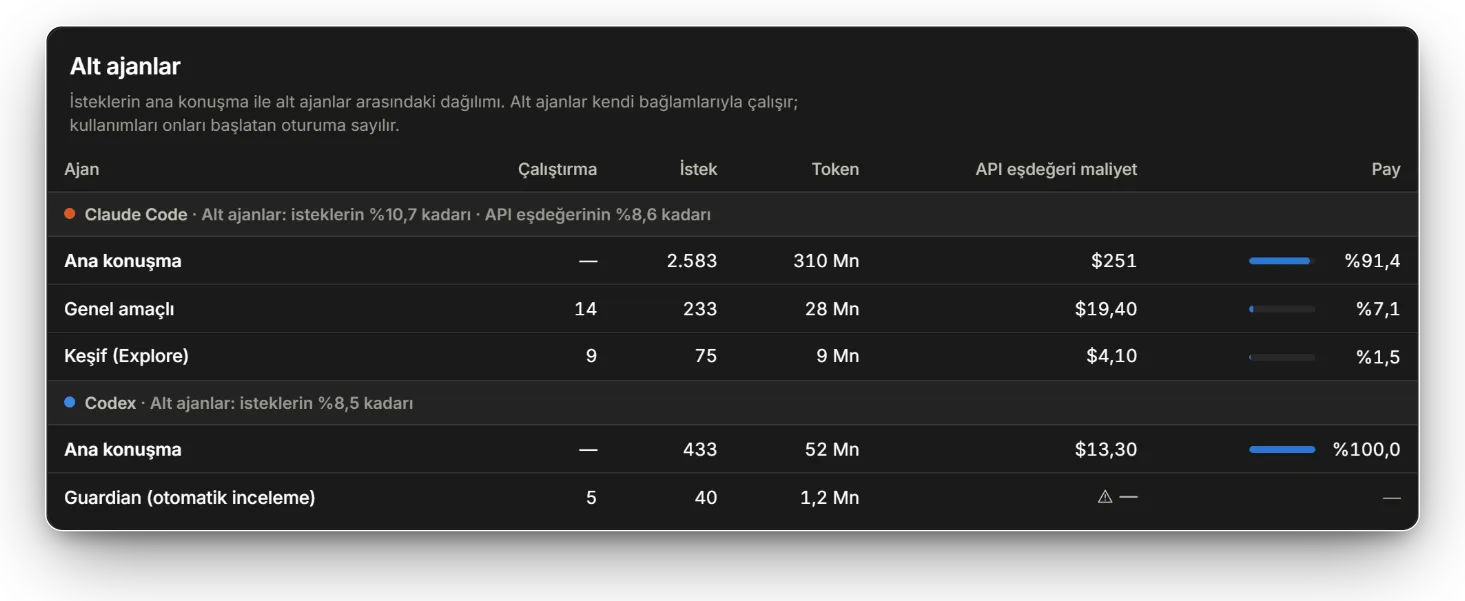
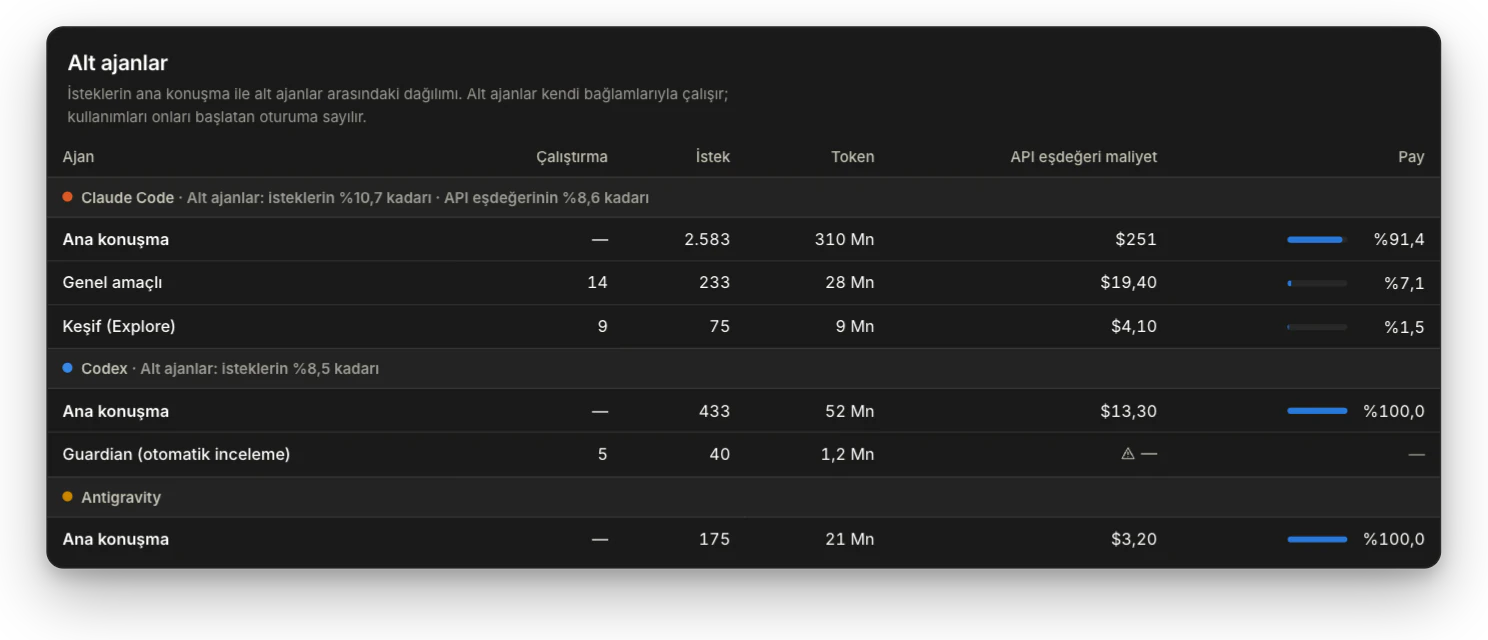
Release 0.4.0 with Google Antigravity
Bumps the version to 0.4.0 and adds Antigravity to both READMEs: the supported sources table, the Antigravity limit read under live capture, installing the CLIs from the app with sign-in help, and the known limitations for older Antigravity conversations and Google AI plan prices. All README screenshots and both demo GIFs are retaken from the current app, now showing Antigravity, plan value and the five live capture switches.

diff --git a/ui/src/lib/devmock.ts b/ui/src/lib/devmock.ts
@@ -9,6 +9,8 @@ let codexMissing = scenario.get('codex') === 'missing'
 let codexOut = scenario.get('codex') === 'nologin'
 let agyOut = scenario.get('agy') === 'nologin'
 let agyMissing = scenario.get('agy') === 'missing'
+// every limit read fresh and in range, as on a typical day (README screenshots)
+const showcase = scenario.get('showcase') === '1'
 
 let seed = 7
 const rnd = () => ((seed = (seed * 16807) % 2147483647) / 2147483647)
@@ -26,7 +28,7 @@ const settings: Settings = {
   currency: 'USD',
   fx_rate: 1,
   widget: {
-    visible: true, opacity: 0.85, size: 'm', scale: 1, x: null, y: null, anchor: 'bottom-right', auto_hide_fullscreen: true, layout: 'horizontal',
+    visible: true, opacity: showcase ? 1 : 0.85, size: 'm', scale: 1, x: null, y: null, anchor: 'bottom-right', auto_hide_fullscreen: true, layout: 'horizontal',
     items: (['primary', 'cost', 'limit_five_hour', 'limit_seven_day', 'tools', 'week_tokens', 'week_cost', 'month_cost', 'updated'] as const).map((k, i) => ({ kind: k, enabled: i < 4 })),
     providers: [], primary_period: 'today', primary_metric: 'tokens', limit_style: 'ring', theme: 'system', accent: '', corner_radius: 14,
     border: true, shadow: false, show_labels: true, show_reset_time: false, warn_at: 70, high_at: 90, always_on_top: true, lock_position: false, click_action: 'open_dashboard',
@@ -38,7 +40,7 @@ const settings: Settings = {
   primary_metric: 'tokens',
   dismissed_unpriced: [],
   limit_display: 'used',
-  plan_prices: {},
+  plan_prices: showcase ? { google: 19.99 } : {},
   weekly_report_auto: false,
   weekly_report_dir: '',
   tray: { show_percent: true, limit: 'auto' },
@@ -142,7 +144,7 @@ function limits(): LimitView[] {
 function allLimits(): LimitView[] {
   const now = Date.now()
   const share = (p: string, s: number, used: number | null) => ({ project_id: projects.indexOf(p) + 1, name: p, hidden: false, totals: totals(Math.round(s * 5e7), s * 30), share: s, estimated_pct: used === null ? null : used * s })
-  return [
+  const all: LimitView[] = [
     { provider: 'anthropic', limit_id: '', window: 'five_hour', window_minutes: 300, used_pct: 46, resets_at: Math.round(now / 1000 + 2.3 * 3600), observed_ms: now - 192 * 60000, source: 'cowork_audit', status: 'allowed', plan: null, accuracy: 'exact', state: 'behind', window_start_ms: now - 2.7 * 3600e3, window_usage: totals(41e6, 31.2), usage_since: totals(190e6, 65.9), forecast: null, projects: [share('demo-app', 0.62, 46), share('notes', 0.38, 46)] },
     { provider: 'anthropic', limit_id: '', window: 'seven_day', window_minutes: 10080, used_pct: 73, resets_at: Math.round(now / 1000 + 2.6 * 86400), observed_ms: now - 4 * 60000, source: 'cowork_audit', status: 'allowed_warning', plan: null, accuracy: 'exact', state: 'fresh', window_start_ms: now - 4.4 * 86400e3, window_usage: totals(612e6, 402.5), usage_since: totals(0, 0), forecast: { kind: 'fills', rate_per_hour: 0.9, fills_at_ms: now + 30 * 3600e3, at_reset_pct: null, basis_minutes: 5760 }, projects: [share('demo-app', 0.5, 73), share('website', 0.3, 73), share('notes', 0.2, 73)] },
     { provider: 'openai', limit_id: 'codex', window: 'five_hour', window_minutes: 300, used_pct: 12, resets_at: Math.round(now / 1000 + 4 * 3600), observed_ms: now - 20 * 60000, source: 'codex_rollout', status: null, plan: 'plus', accuracy: 'exact', state: 'fresh', window_start_ms: now - 3600e3, window_usage: totals(5e6, 3.1), usage_since: totals(0, 0), forecast: { kind: 'safe', rate_per_hour: 4.2, fills_at_ms: null, at_reset_pct: 29, basis_minutes: 60 }, projects: [share('data-pipeline', 1, 12)] },
@@ -151,6 +153,14 @@ function allLimits(): LimitView[] {
     { provider: 'google', limit_id: 'gemini', window: 'seven_day', window_minutes: 10080, used_pct: 9, resets_at: Math.round(now / 1000 + 4.2 * 86400), observed_ms: now - 90000, source: 'antigravity_cli_usage', status: null, plan: null, accuracy: 'captured', state: 'fresh', window_start_ms: now - 2.8 * 86400e3, window_usage: totals(9e6, 2.1), usage_since: totals(0, 0), forecast: null, projects: [share('website', 1, 9)] },
     { provider: 'google', limit_id: '3p', window: 'five_hour', window_minutes: 300, used_pct: 0, resets_at: Math.round(now / 1000 + 5 * 3600), observed_ms: now - 90000, source: 'antigravity_cli_usage', status: null, plan: null, accuracy: 'captured', state: 'fresh', window_start_ms: now, window_usage: totals(0, 0), usage_since: totals(0, 0), forecast: null, projects: [] },
   ]
+  if (!showcase) return all
+  return all.map((l) => {
+    if (l.provider === 'anthropic' && l.window === 'five_hour')
+      return { ...l, observed_ms: now - 3 * 60000, state: 'fresh', usage_since: totals(0, 0), forecast: { ...all[2].forecast!, rate_per_hour: 17, at_reset_pct: 85 } }
+    if (l.provider === 'openai' && l.window === 'seven_day')
+      return { ...l, resets_at: Math.round(now / 1000 + 3.2 * 86400), observed_ms: now - 20 * 60000, state: 'fresh', window_start_ms: now - 3.8 * 86400e3, window_usage: totals(52e6, 13.3), forecast: { ...all[2].forecast!, rate_per_hour: 0.3, at_reset_pct: 56 }, projects: [share('website', 0.58, 31), share('data-pipeline', 0.42, 31)] }
+    return l
+  })
 }
 
 function mockSessions() {
@@ -210,12 +220,14 @@ function mockPlanValue() {
   const run = (per: number) => { let r = 0; return dates.map((_, i) => (r += per * (0.4 + ((i * 37) % 10) / 8))) }
   const a = run(9.1)
   const o = run(1.2)
+  const g = run(0.78)
   return {
     range: { from_ms: Date.now() - n * 86400e3, to_ms: Date.now() },
     dates,
     providers: [
       { provider: 'anthropic', cost_usd: a[n - 1], events: 9000, unpriced_events: 0, cumulative: a },
       { provider: 'openai', cost_usd: o[n - 1], events: 1200, unpriced_events: 93, cumulative: o },
+      { provider: 'google', cost_usd: g[n - 1], events: 640, unpriced_events: 0, cumulative: g },
     ],
   }
 }
@@ -293,6 +305,8 @@ function mockHistory() {
   })
   const codexWeek = week.map((w, i) => ({ ...w, peak_pct: [12, 20, 9, 31, 26, 18, 44, 7][i], full: false, full_at_ms: null, full_minutes: null, plan: 'plus' }))
   const codexFive = five.slice(0, 12).map((w, i) => ({ ...w, peak_pct: [8, 22, 15, 41, 5, 13, 29, 18, 9, 36, 12, 7][i], full: false, full_at_ms: null, full_minutes: null, plan: 'plus', complete: i % 3 !== 0, in_progress: false }))
+  const geminiFive = five.slice(12).map((w, i) => ({ ...w, peak_pct: [14, 9, 27, 18, 33, 6, 21, 12, 38, 16, 24, 18][i], full: false, full_at_ms: null, full_minutes: null, plan: null }))
+  const geminiWeek = week.slice(4).map((w, i) => ({ ...w, peak_pct: [11, 17, 13, 9][i], full: false, full_at_ms: null, full_minutes: null, plan: null }))
   const withLocal = <T extends { peak_pct: number }>(list: T[], perPct: number) =>
     list.map((w, i) => ({ ...w, local: { requests: Math.round(w.peak_pct * 9 + i), tokens: Math.round(w.peak_pct * 2.1e6), cost_usd: w.peak_pct * perPct * (0.85 + ((i * 7) % 5) / 15), unpriced_requests: 0 } }))
   const stats = (w: number, c: number, f: number, fm: number, pc: number | null, ps: number | null) => ({ windows: w, complete: c, full: f, full_minutes: fm, peak_complete: pc, peak_seen: ps })
@@ -305,8 +319,10 @@ function mockHistory() {
         { provider: 'anthropic', limit_id: '', window: 'seven_day', window_minutes: 10080, windows: withLocal(week, 1.6), capacity: { median_usd: 163, min_usd: 139, max_usd: 181, windows: 5 } },
         { provider: 'openai', limit_id: 'codex', window: 'five_hour', window_minutes: 300, windows: withLocal(codexFive, 0.05), capacity: { median_usd: 4.9, min_usd: 3.8, max_usd: 6.1, windows: 6 } },
         { provider: 'openai', limit_id: 'codex', window: 'seven_day', window_minutes: 10080, windows: withLocal(codexWeek, 0.3), capacity: null },
+        { provider: 'google', limit_id: 'gemini', window: 'five_hour', window_minutes: 300, windows: withLocal(geminiFive, 0.04), capacity: null },
+        { provider: 'google', limit_id: 'gemini', window: 'seven_day', window_minutes: 10080, windows: withLocal(geminiWeek, 0.2), capacity: null },
       ],
-      observed_days: { anthropic: 26, openai: 14 },
+      observed_days: { anthropic: 26, openai: 14, google: 12 },
     },
     advice: [
       { provider: 'anthropic', kind: 'upgrade', plan: 'max5x', suggested: 'max20x', strong: false, days: 28, observed_days: 26, five_hour: stats(24, 18, 3, 180, 100, 100), weekly: stats(4, 3, 1, 540, 100, 100), session_ratio: 4, projected_five_hour: null, projected_weekly_if_same_ratio: null, suggested_has_no_five_hour: false, monthly_delta_usd: 100 },
@@ -324,6 +340,17 @@ function mockDay(date: string) {
     const cx = on && h % 3 === 0 ? Math.round(6e5 + (h % 4) * 2e5) : 0
     return { hour: h, tokens: cc + cx, cost_usd: cc * 0.75e-6 + cx * 0.6e-6, events: Math.round((cc + cx) / 120000), by_tool: { ...(cc ? { claude_code: cc } : {}), ...(cx ? { codex: cx } : {}) } }
   })
+  // match the day's total in the 30-day chart
+  const target = report({ kind: 'month1' } as Period).daily.find((d) => d.date === date)?.tokens ?? 0
+  const raw = hourly.reduce((a, h) => a + h.tokens, 0)
+  if (target > 0 && raw > 0)
+    for (const h of hourly) {
+      const f = target / raw
+      h.tokens = Math.round(h.tokens * f)
+      h.cost_usd *= f
+      h.events = Math.round(h.tokens / 120000)
+      for (const k of Object.keys(h.by_tool) as (keyof typeof h.by_tool)[]) h.by_tool[k] = Math.round(h.by_tool[k]! * f)
+    }
   const tok = hourly.reduce((a, h) => a + h.tokens, 0)
   const cost = hourly.reduce((a, h) => a + h.cost_usd, 0)
   const g = (key: string, label: string, share: number, hidden = false) => ({ key, label, hidden, totals: totals(Math.round(tok * share), cost * share) })
@@ -345,7 +372,7 @@ function mockDay(date: string) {
   }
 }
 
-const update = { current: '0.3.0', configured: true, checking: false, last_check_ms: Date.now() - 3600e3, last_error: null, available: null as null | { version: string; notes: string | null; date: string | null }, installing: false, downloaded: 0, total: null }
+const update = { current: '0.4.0', configured: true, checking: false, last_check_ms: Date.now() - 3600e3, last_error: null, available: null as null | { version: string; notes: string | null; date: string | null }, installing: false, downloaded: 0, total: null }
 
 const pricing = {
   schema_version: 1,
@@ -363,7 +390,7 @@ export function installMock() {
       const a = args as Record<string, unknown>
       switch (cmd) {
         case 'app_info':
-          return { version: '0.3.0', data_dir: 'C:\\Users\\you\\AppData\\Local\\AIUsageTracker', pricing_origin: 'bundled', pricing_updated_at: '2026-10-02', platform: 'windows', supports_mica: false, accent_color: null, started_hidden: false, reports_dir: 'C:\\Users\\you\\Documents\\AI Usage Tracker' }
+          return { version: '0.4.0', data_dir: 'C:\\Users\\you\\AppData\\Local\\AIUsageTracker', pricing_origin: 'bundled', pricing_updated_at: '2026-10-02', platform: 'windows', supports_mica: false, accent_color: null, started_hidden: false, reports_dir: 'C:\\Users\\you\\Documents\\AI Usage Tracker' }
         case 'get_settings':
           return settings
         case 'save_settings':

diff --git a/README.md b/README.md
@@ -2,7 +2,7 @@
 
 # AI Usage Tracker
 
-**Your Claude Code and Codex usage, cost, and plan limits, on your own computer.**
+**Your Claude Code, Codex and Antigravity usage, cost, and plan limits, on your own computer.**
 
 A private app for Windows, macOS, and Linux that reads the usage logs your AI tools already write, keeps its own archive, and shows tokens, API-equivalent cost, and live limit percentages. No account, no cloud, no telemetry.
 
@@ -16,11 +16,12 @@ A private app for Windows, macOS, and Linux that reads the usage logs your AI to
 
 - **Private by design.** Prompts and responses are never stored. Only counts and metadata are kept, in a local SQLite file, and your usage data never leaves the computer.
 - **Know where every number comes from.** Every figure is labeled: **Exact** from the tool's own log, **Estimated** by the app, or **Captured** live. Nothing is guessed silently.
-- **Stay ahead of your limits.** Five-hour and weekly percentages for Claude and Codex are read every few minutes, with a forecast of when each window fills.
+- **Stay ahead of your limits.** Five-hour and weekly percentages for Claude, Codex and Antigravity are read every few minutes, with a forecast of when each window fills.
 
 ## What sets it apart
 
-- **Track your limits without spending quota.** Your five-hour and weekly percentages come from Claude Code's and Codex's own official interfaces, without a single model request.
+- **Track your limits without spending quota.** Your five-hour and weekly percentages come from the official interfaces of Claude Code, Codex and the Antigravity CLI, without a single model request.
+- **Install what you need in one click.** If a limit read needs Claude Code, the Codex CLI or the Antigravity CLI, the app installs it with its maker's own installer, and shows step by step how to sign in when that is missing.
 - **See when your limit may run out.** The forecast uses your average pace since the window started, so a short burst of work is not projected across the whole window.
 - **See what a limit window is worth in API terms.** From the windows it has watched to their end, the app estimates how much API-equivalent use a whole five-hour or weekly window holds.
 - **Find the plan that fits your use.** A bigger plan is suggested when your limits keep filling, and a smaller one only when the provider publishes the ratio between plans.
@@ -29,15 +30,15 @@ A private app for Windows, macOS, and Linux that reads the usage logs your AI to
 - **Measure what the cache saves you.** You see the hit rate, the net savings, and what it cost when the cache had to be written again after a long pause.
 - **Keep your history.** Resumed and forked sessions are never counted twice, and your history stays in the archive even after the tools delete their own logs (Claude Code does so after 30 days).
 
-![A short tour: the overview with a chart tooltip, current limits, limit history, tips, the model comparison and the Widget studio changing the widget's layout](assets/readme/demo-en.gif)
+![A short tour: the overview with a chart tooltip and plan value, current limits including Antigravity, limit history, tips, the daily view, the model comparison, live capture and the Widget studio changing the widget's layout](assets/readme/demo-en.gif)
 
 ## Features
 
 ### Limits that stay current
 
-The app reads the five-hour and weekly limit percentages through Claude Code's and Codex's own interfaces, so the numbers match what the tools show. Each window gets a forecast at its average pace, and each project gets an estimated share of it.
+The app reads the five-hour and weekly limit percentages through the tools' own interfaces (Claude Code, Codex and the Antigravity CLI), so the numbers match what the tools show. Each window gets a forecast at its average pace, and each project gets an estimated share of it.
 
-![Limits page with Claude and Codex five-hour and weekly windows, forecasts, and project shares](assets/readme/limits-en.webp)
+![Limits page with the five-hour and weekly windows of Claude, Codex and Antigravity, forecasts, and project shares](assets/readme/limits-en.webp)
 
 Providers publish how their limits work, not the numbers themselves. The app therefore follows these rules:
 
@@ -95,7 +96,7 @@ Amounts are API equivalents. On a subscription you do not pay them; they show th
 
 The **Daily** page shows the period day by day, as columns or, for long periods, as a calendar, in tokens, API-equivalent cost, or requests. It highlights the busiest day, the average per active day, the longest and current streaks of active days, and the weekend share.
 
-![Daily page with daily columns for Claude Code and Codex and the busiest-day and streak figures](assets/readme/daily-en.webp)
+![Daily page with daily columns for Claude Code, Codex and Antigravity and the busiest-day and streak figures](assets/readme/daily-en.webp)
 
 Pick a day, or step through the active days, to see it in detail:
 
@@ -111,7 +112,7 @@ Next to it are the average for each weekday and the busiest days.
 
 On the **Breakdown** page, the period's priced requests are repriced on every model in the price list, with the same token counts and prompt sizes, and listed cheapest first against the actual cost.
 
-![A chart comparing the actual cost with the same requests priced on other Claude and GPT models](assets/readme/compare-en.webp)
+![A chart comparing the actual cost with the same requests priced on other Claude, GPT and Gemini models](assets/readme/compare-en.webp)
 
 Model families tokenize the same text differently (Claude 4.7 and later use about 30 % more tokens), so comparisons across families are approximate. Quality and speed are not taken into account.
 
@@ -163,7 +164,7 @@ Negative savings mean that written cache was not read enough to pay off.
 
 An always-on-top mini window sits by default in the bottom-right corner of the screen. It sizes itself to its content and, when snapped to a corner, stays flush with that corner while it resizes. Dragging it leaves it where you drop it.
 
-![The desktop widget showing today's tokens and cost with rings for the Claude and Codex five-hour limits](assets/readme/widget-en.webp)
+![The desktop widget showing today's tokens and cost with rings for the Claude, Codex and Antigravity five-hour limits](assets/readme/widget-en.webp)
 
 The **Widget studio** page changes what the widget shows and how it looks, with a live preview.
 
@@ -209,6 +210,7 @@ The widget also comes with a tray icon and a shortcut:
 | **Cowork sessions** (Claude desktop) | *Claude folder*`/local-agent-mode-sessions/**` | **Exact** | **Exact %** (5 h / 7 d) | Only tasks that ran on your computer. New Cowork tasks run in the cloud: their token counts are not stored on your computer, but they count toward your plan limits |
 | **Claude desktop: plan usage** | *Claude folder*`/plan-usage-history.json` | — | **Exact %** | Chat tokens are not stored locally, so **none** |
 | **Codex** (CLI and desktop) | `$CODEX_HOME` or `~/.codex/{sessions,archived_sessions}` | **Exact** | **Exact %** (every request) | |
+| **Antigravity** (app, IDE and `agy` CLI) | `~/.gemini/{antigravity,antigravity-ide,antigravity-cli}/conversations/*.db` or `$ANTIGRAVITY_APP_DATA_DIR` | **Exact** | **Captured %** (through `agy`) | A copy of each database is read, so Antigravity's files are never touched. Gemini and Claude/GPT limits are shown separately |
 | ChatGPT desktop | — | **None** | — | Detection only |
 
 `~` is your home folder (`%USERPROFILE%` on Windows). The *Claude folder* is `%APPDATA%\Claude` on Windows and `~/Library/Application Support/Claude` on macOS; the Claude desktop app is not available for Linux.
@@ -277,20 +279,23 @@ Every release includes `SHA256SUMS`, the checksum of each file. Put it next to y
 - **Read:** timestamps, model, project folder, session ID, token counts, and limit percentages from the tools' own logs.
 - **Stored:** only those values, in `tracker.db` (SQLite) in the app's data folder: `%LOCALAPPDATA%\AIUsageTracker` on Windows, `~/Library/Application Support/AIUsageTracker` on macOS, and `~/.local/share/AIUsageTracker` on Linux. Project names stay local. You can hide them one by one or all at once, and hidden names are masked in exports too.
 - **Never stored:** prompts, responses, file contents, credentials, or tokens. The app does **not** read the tools' credential files.
-- **Network:** the app itself connects only to check for updates. The check downloads the release's version file and sends nothing (**Settings → Updates**). The limit reads, on by default, run your own Claude Code and Codex, which ask their own services for your plan's limit percentages; the app starts them with their telemetry and error reporting turned off. You can turn the reads off under **Sources → Live capture**. Prices and plans ship with the app, and currency conversion uses a rate you enter yourself.
+- **Network:** the app itself connects only to check for updates. The check downloads the release's version file and sends nothing (**Settings → Updates**). The limit reads, on by default, run your own Claude Code, Codex and Antigravity CLI, which ask their own services for your plan's limit percentages; the app starts them with their telemetry and error reporting turned off. You can turn the reads off under **Sources → Live capture**. If you install a tool from the app, its installer is downloaded from the maker's site. Prices and plans ship with the app, and currency conversion uses a rate you enter yourself.
 
 ### Live capture
 
-**Sources → Live capture** has four switches. The two **limit reads are on by default**: they change no files, make no model request, and use only your own Claude Code or Codex sign-in. The two methods that edit Claude Code's settings file are **off by default**. Each switch shows exactly what it changes, and turning it off undoes the change. The Windows uninstaller and removing the Linux package revert them too, but updates leave them alone. On macOS and with the AppImage, turn them off before you delete the app.
+**Sources → Live capture** has five switches. The three **limit reads are on by default**: they change no files, make no model request, and use only your own Claude Code, Codex or Antigravity CLI sign-in. The two methods that edit Claude Code's settings file are **off by default**. Each switch shows exactly what it changes, and turning it off undoes the change. The Windows uninstaller and removing the Linux package revert them too, but updates leave them alone. On macOS and with the AppImage, turn them off before you delete the app.
 
-![Live capture panel with the four switches and what each one changes](assets/readme/capture-en.webp)
+![Live capture panel with the five switches and what each one changes](assets/readme/capture-en.webp)
 
 | Method | What it does | What it changes |
 |---|---|---|
 | **Claude limit reads** | Reads the five-hour and weekly limit percentages through Claude Code's own usage query. No model request is made, so no quota is used. It updates every 5 minutes while Claude is in use and every 15 minutes otherwise, because Claude's usage service does not allow more frequent requests. Claude desktop chat, its Code tab, Cowork, and web use are all reflected. Requires Claude Code signed in with a Pro or Max account (`claude` → `/login`). | Nothing. It uses your own Claude Code install and sign-in, turns off MCP servers and hooks as well as telemetry, error reporting, and auto-update for the read, and never touches credentials. |
 | **Codex limit reads** | Reads the five-hour and weekly limit percentages every 5 minutes through Codex's official interface, so they stay current even when you are not using Codex. | Nothing. It uses your own Codex install and sign-in with analytics turned off, and never touches credentials. |
+| **Antigravity limit reads** | Reads the five-hour and weekly limit percentages of the Gemini and Claude/GPT pools every 5 minutes through the Antigravity CLI's (`agy`) own `/usage` command. The Antigravity app and IDE cannot do this read; it needs `agy`. | Nothing. It uses your own `agy` install and Google sign-in, `agy` does not update itself during the read, and credentials are never touched. |
 | **Claude Code status-line bridge** | Records the five-hour and weekly limit percentages from Claude Code's official `statusLine` data (Pro/Max). An existing status line keeps running with the same input. It works where Claude Code shows a status line (the terminal); the Code tab of the Claude desktop app does not run status lines. | `statusLine` in `~/.claude/settings.json` (backed up first). |
 | **Local telemetry receiver** | Takes per-request token counts from Claude Code's official telemetry, including helper-model calls that the transcripts lack. | Log-export variables only, in the `env` block of `~/.claude/settings.json`. It listens on `127.0.0.1` only and accepts only requests that carry a key generated for this install. |
+
+When the tool a limit read needs is missing, its card offers **Install** and **Install guide**. **Install** uses the maker's own installer: `claude.ai/install` for Claude Code, `chatgpt.com/codex/install` for Codex, and `antigravity.google/cli/install` for the Antigravity CLI. When the tool is installed but signed out, the overview and its card explain step by step how to sign in, and **Try again** reads the limits right away.
 
 Safeguards:
 
@@ -303,9 +308,9 @@ Safeguards:
 
 Everything runs on your computer:
 
-1. Claude Code, Cowork, Claude desktop, and the Codex CLI and desktop app write usage logs to disk, as they already do.
+1. Claude Code, Cowork, Claude desktop, the Codex CLI and desktop app, and the Antigravity app, IDE and CLI write usage logs to disk, as they already do.
 2. The app reads each log from where it left off, so a rescan only touches what is new. It takes only details such as token counts, model, and time; prompt and response text is never saved anywhere.
-3. When the limit reads are on, your own `claude` and `codex` CLIs supply the limit percentages.
+3. When the limit reads are on, your own `claude`, `codex` and `agy` CLIs supply the limit percentages.
 4. Only counts and metadata reach the local archive (SQLite). Duplicates from streaming, resumed or forked sessions, and Codex logs moved to the archive are counted once.
 5. The dashboard, widget, tray icon, and weekly PDF read from that archive.
 
@@ -320,6 +325,8 @@ The app checks for a new version at startup and every 6 hours. The check downloa
 - **Codex fast tier:** not recorded per request, so the standard price is used.
 - **Telemetry-only requests:** for requests known only from the local telemetry receiver, cache writes are priced at the 5-minute rate, so their cost can be slightly low.
 - **`codex-auto-review`:** has no published price.
+- **Older Antigravity conversations:** conversations that older Antigravity versions kept encrypted as `.pb` files, and conversations whose database is gone, are not read; they hold no real token counts.
+- **Google AI plan prices:** they differ by country and offer, so you enter what you pay for your Antigravity plan.
 - **Log formats:** these are not documented interfaces and may change. The app skips unknown fields and lists unrecognized files under **Sources**.
 
 ## Build from source
